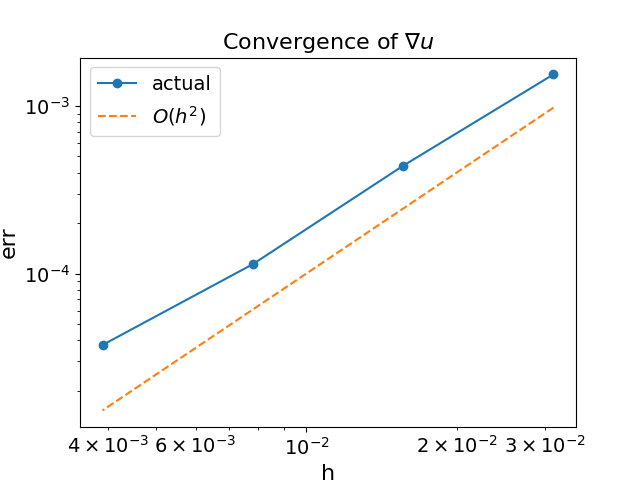
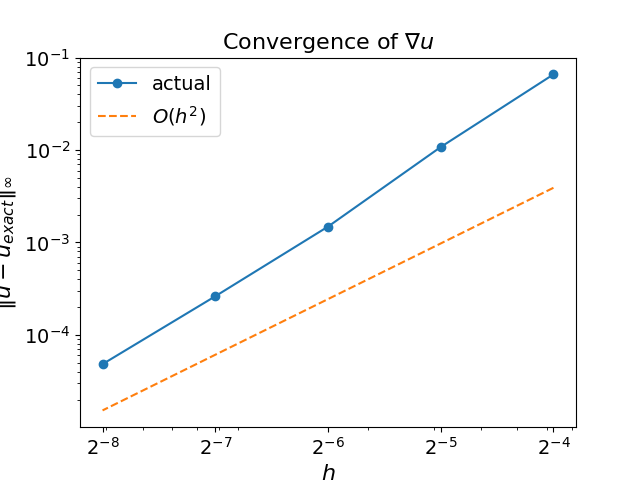
update poisson figures

diff --git a/examples/poisson/convergence.py b/examples/poisson/convergence.py
@@ -5,6 +5,7 @@ import matplotlib.pyplot as plt
 import matplotlib.cm as cm
 import numpy as np
 from mpl_toolkits.mplot3d import Axes3D  # noqa: F401
+from matplotlib.ticker import LogLocator, LogFormatter
 
 plt.rcParams.update(
     {
@@ -21,7 +22,7 @@ plt.rcParams.update(
 def surface(x, y):
     rr = np.sqrt((x - x0) ** 2 + (y - y0) ** 2)
     ang = np.arctan2(y - y0, x - x0)
-    return rr - (0.5 + 0.05 * np.sin(5 * ang))
+    return rr - (0.5 + 0.15 * np.sin(5 * ang))
 
 file_path = os.path.dirname(os.path.realpath(__file__))
 G = 3
@@ -29,7 +30,7 @@ G = 3
 x0 = 0.02 * np.sqrt(5)
 y0 = 0.02 * np.sqrt(3)
 eps_safe = 1e-30
-n_range = 2 ** np.arange(5, 9, dtype=int)
+n_range = 2 ** np.arange(4, 9, dtype=int)
 errors_u = np.zeros(n_range.size)
 errors_du = np.zeros(n_range.size)
 for i, n in enumerate(n_range):
@@ -102,19 +103,28 @@ for idx, n in enumerate(n_range):
         f"{order_du:8.2f}"
     )
 
+h_values = 1 / n_range
+h_labels = [f"$2^{{{int(np.log2(h))}}}$" for h in h_values]
+
 plt.figure()
-plt.loglog(1 / n_range, errors_u, "o-", label="actual")
-plt.loglog(1 / n_range, 1 / n_range**2, "--", label="$O(h^2)$")
-plt.xlabel("h")
-plt.ylabel("err")
+plt.loglog(h_values, errors_u, "o-", label="actual")
+plt.loglog(h_values, 1 / n_range**2, "--", label="$O(h^2)$")
+ax = plt.gca()
+ax.xaxis.set_major_locator(LogLocator(base=2.0))
+plt.xticks(h_values, h_labels)
+plt.xlabel("$h$")
+plt.ylabel("$\|u - u_{exact}\|_\infty$")
 plt.legend()
 plt.title("Convergence of $u$")
 plt.savefig(f"{file_path}/convergence_poisson_solution.png")
 plt.figure()
-plt.loglog(1 / n_range, errors_du, "o-", label="actual")
-plt.loglog(1 / n_range, 1 / n_range**2, "--", label="$O(h^2)$")
-plt.xlabel("h")
-plt.ylabel("err")
+plt.loglog(h_values, errors_du, "o-", label="actual")
+plt.loglog(h_values, 1 / n_range**2, "--", label="$O(h^2)$")
+ax = plt.gca()
+ax.xaxis.set_major_locator(LogLocator(base=2.0))
+plt.xticks(h_values, h_labels)
+plt.xlabel("$h$")
+plt.ylabel("$\|u - u_{exact}\|_\infty$")
 plt.legend()
 plt.title("Convergence of $\\nabla u$")
 plt.savefig(f"{file_path}/convergence_poisson_gradient.png")

diff --git a/examples/poisson/README.md b/examples/poisson/README.md
@@ -38,6 +38,8 @@ The script compares numerical $\phi$ and $\mathbf{E}$ against the exact solution
 
 ![Solution](figures/poisson_solution.png)
 
-![Convergence](figures/convergence_poisson.png)
+![Convergence Solution](figures/convergence_poisson_solution.png)
+
+![Convergence Gradient](figures/convergence_poisson_gradient.png)
 
 Numerical solution matches the exact solution. The convergence plot shows $\mathcal{O}(h^2)$ decay for both $u$ and $\nabla u$, confirming the 2nd-order accuracy.
